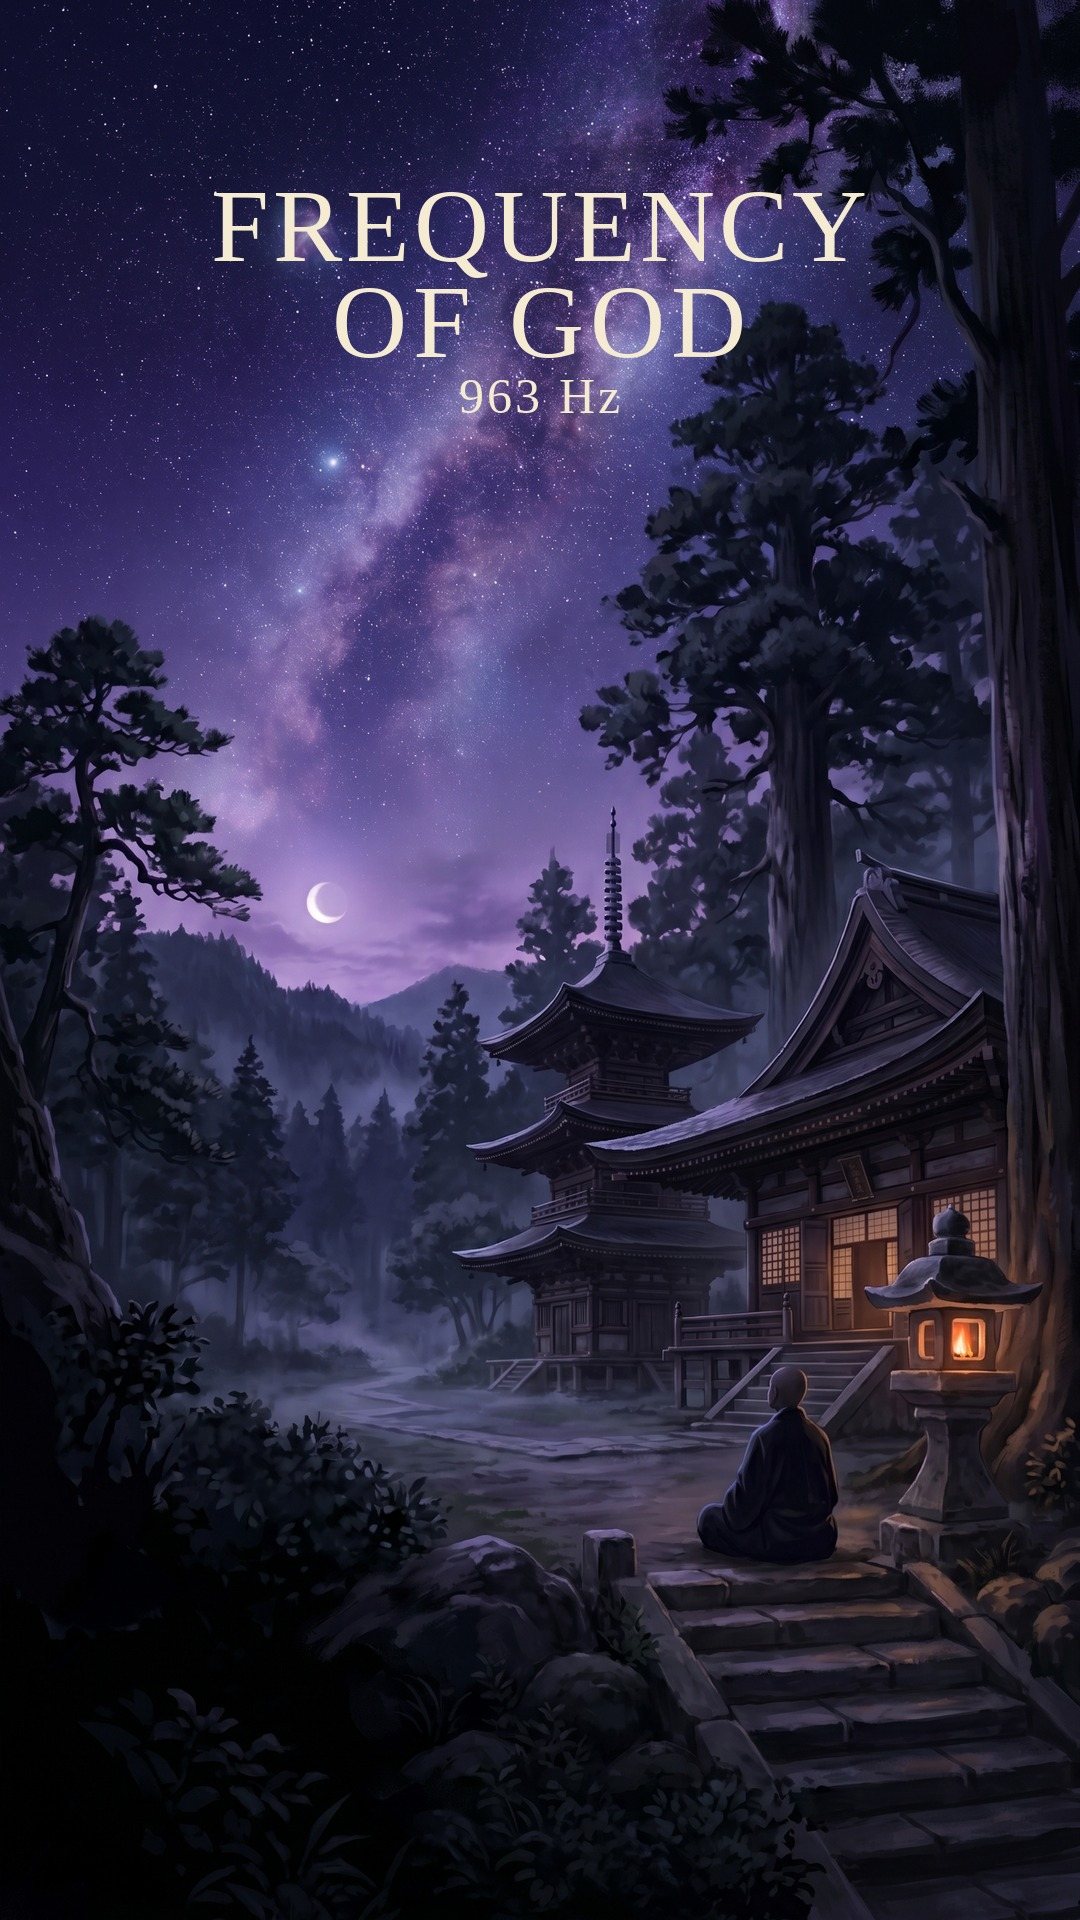
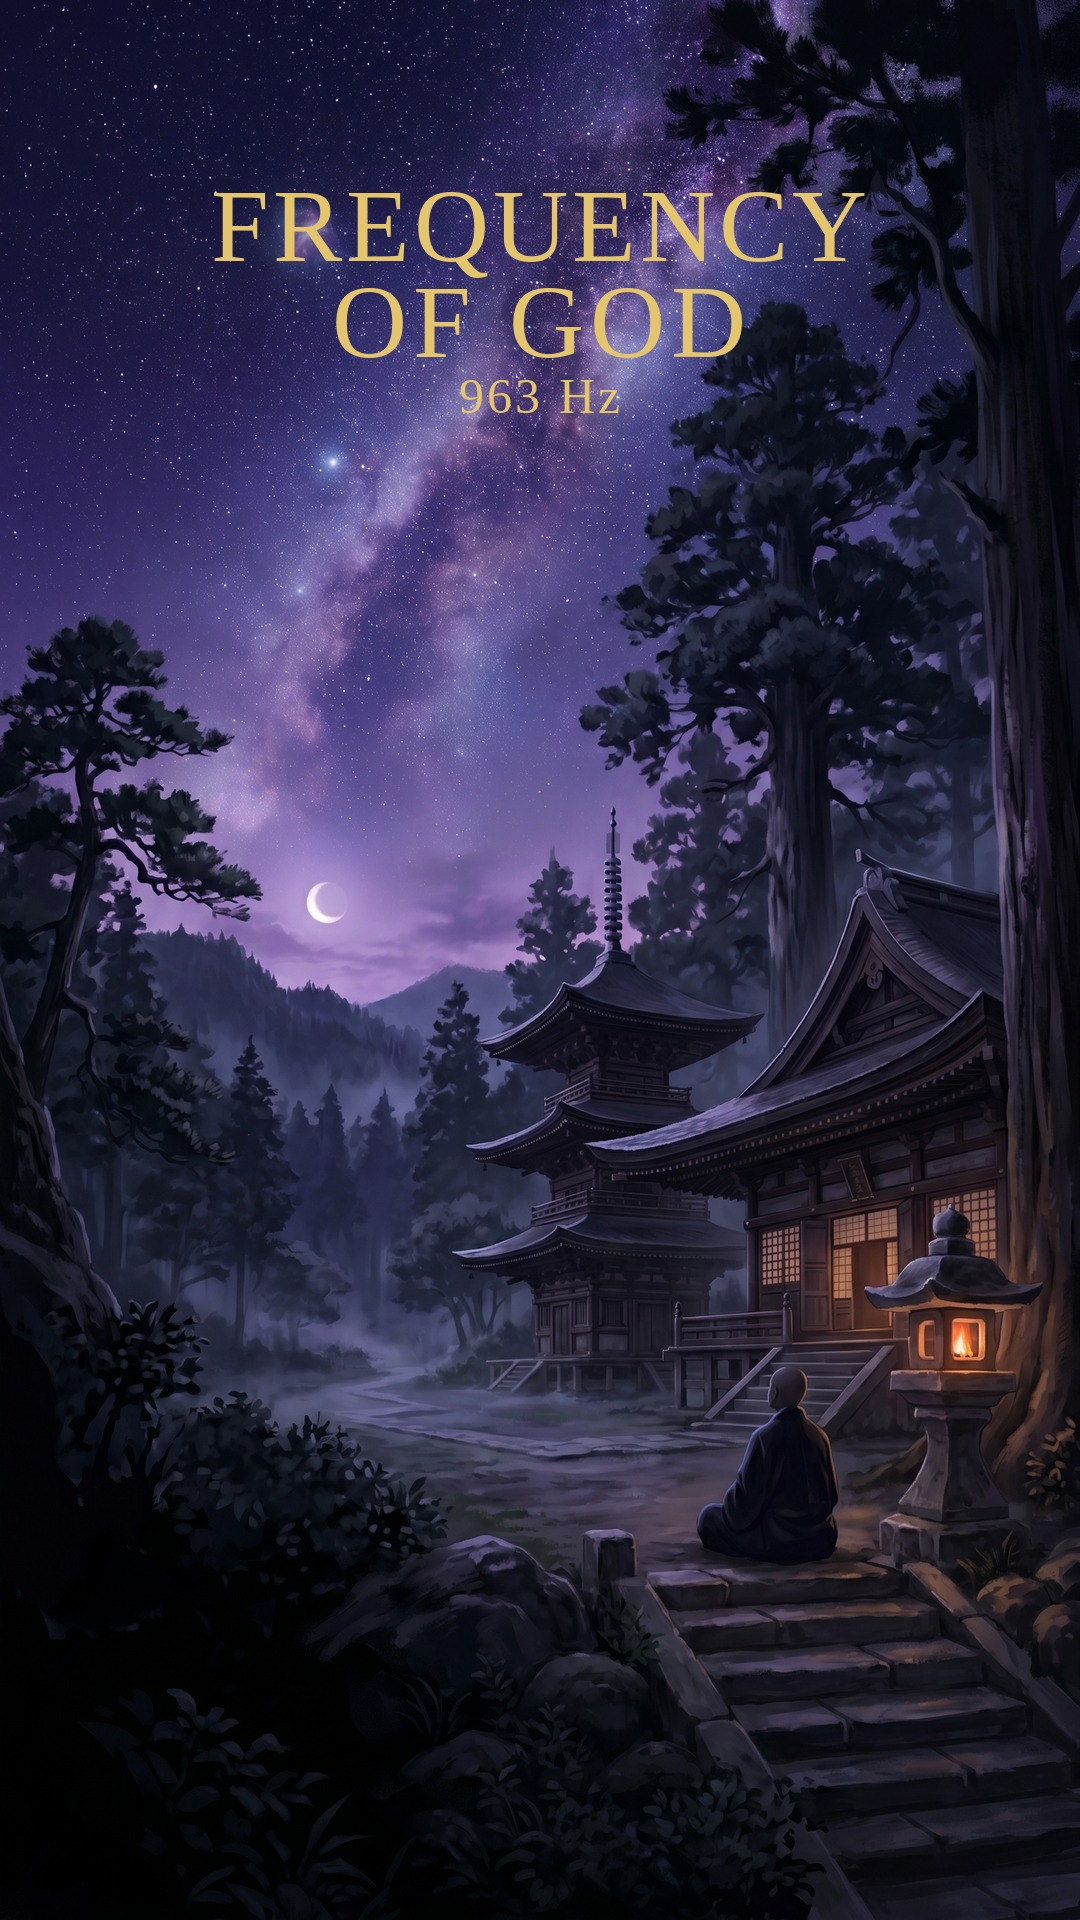
Lock thumbnail text-color rule: cream default, gold for God/divine themes
User decision: cream #F5EAD2 is the standard; use gold #E4C46C only when
the title/theme references gold/God/divine/miracle/sacred (e.g. 963 Hz
Frequency of God) — gold then echoes the stone-lantern flame.

- CLAUDE.md: added the locked text-color rule to the Healing Hour spec
- 963 Mount Koya: swapped 16:9 + Shorts thumbnails to GOLD versions in
  assets; script thumbnail/cover specs updated to gold

Changed region(s): [[0.1833, 0.0938, 0.7028, 0.2188], [0.7333, 0.0938, 0.7944, 0.1562]]

diff --git a/stillwave/CLAUDE.md b/stillwave/CLAUDE.md
@@ -101,7 +101,8 @@ Continue using the original style for the videos that aren't in the new format y
 2. Lone figure positioned **at the focal third**, looking into the scene depth (sea / valley / cosmos / cityscape).
 3. Strong atmospheric depth — fog, mist, snow, neon glow, water reflections. NO crisp daylight clarity.
 4. **No in-image text** (the NanoBanana prompt forbids letters — avoids garbled-text artifact). No MacBook, no modern penthouse, no fireplace, no desk props — those are Power Hour signals.
-5. **Post-production thumbnail text overlay is ALLOWED** for Healing Hour (unlike Power Hour). Add via Canva: **1–2 words max** in a thin elegant serif font, low-saturation cream, placed **LOWER-LEFT (figure-8 rule — see Design rules)**, low contrast so it reads as a tonal accent — never dominates. Recommended words: `QUIET MIND` / `AWAKEN` / `STILLNESS` / `BREATHE` + the Hz number as a small tag. The Ghibli illustration carries the click; text is whisper, not shout.
+5. **Post-production thumbnail text overlay is ALLOWED** for Healing Hour (unlike Power Hour). Add via Canva: **1–2 words max** in a thin elegant serif font, placed **LOWER-LEFT (figure-8 rule — see Design rules)**, low contrast so it reads as a tonal accent — never dominates. Recommended words: `QUIET MIND` / `AWAKEN` / `STILLNESS` / `BREATHE` + the Hz number as a small tag. The Ghibli illustration carries the click; text is whisper, not shout.
+   - **🔒 Text color rule:** **cream `#F5EAD2` is the DEFAULT (standard).** Use **gold `#E4C46C` ONLY when the title/theme explicitly references gold / God / divine / miracle / sacred** — e.g. `963 Hz Frequency of God`, a "miracle frequency" angle. Gold then echoes the warm stone-lantern flame and the divine theme. Everything else stays cream/white.
 
 ### Location bank (validated against YouTube recommendation cluster)
 

diff --git a/stillwave/scripts/healing-hour-vol-2-963hz-mount-koya.md b/stillwave/scripts/healing-hour-vol-2-963hz-mount-koya.md
@@ -199,8 +199,9 @@ The NanoBanana 16:9 IS the thumbnail. Canva overlay in the **lower-left** (first
 
 - **Text:** `AWAKEN`
 - **Tag below:** `963 Hz`
-- Thin elegant serif, cream `#F5EAD2`, low contrast, no glow/shadow/stroke.
+- Thin elegant serif, **gold `#E4C46C`** (theme references "God" → gold per the color rule; echoes the stone-lantern flame), low contrast, no glow/shadow/stroke.
 - The image is generated with the lower-left reserved as dark negative space, so the text lands clean.
+- Final: `assets/healing-hour-963hz-mount-koya-thumb.jpg`
 
 ---
 
@@ -210,7 +211,7 @@ The NanoBanana 16:9 IS the thumbnail. Canva overlay in the **lower-left** (first
 
 > Same file = both formats (project rule). The Short is the 15–30 sec hook that funnels to the 1-hour long-form. **Figure-8 does NOT apply to 9:16** — text goes upper-third (bottom = Shorts UI).
 
-**Cover (9:16):** vertical Mount Koya + `FREQUENCY OF GOD` + `963 Hz` (upper third, cream serif on the dark cosmic sky) — `assets/healing-hour-963hz-mount-koya-shorts-cover.jpg`.
+**Cover (9:16):** vertical Mount Koya + `FREQUENCY OF GOD` + `963 Hz` in **gold `#E4C46C`** (theme references "God" → gold per the color rule; echoes the lantern flame), upper third on the dark cosmic sky — `assets/healing-hour-963hz-mount-koya-shorts-cover.jpg`.
 
 **9:16 visual:** see section 4 (vertical Mount Koya). **Flow 9:16 loop:** star/Milky Way shimmer + stone-lantern flame flicker + drifting mist, monk still, 15–30 sec seamless.
 
